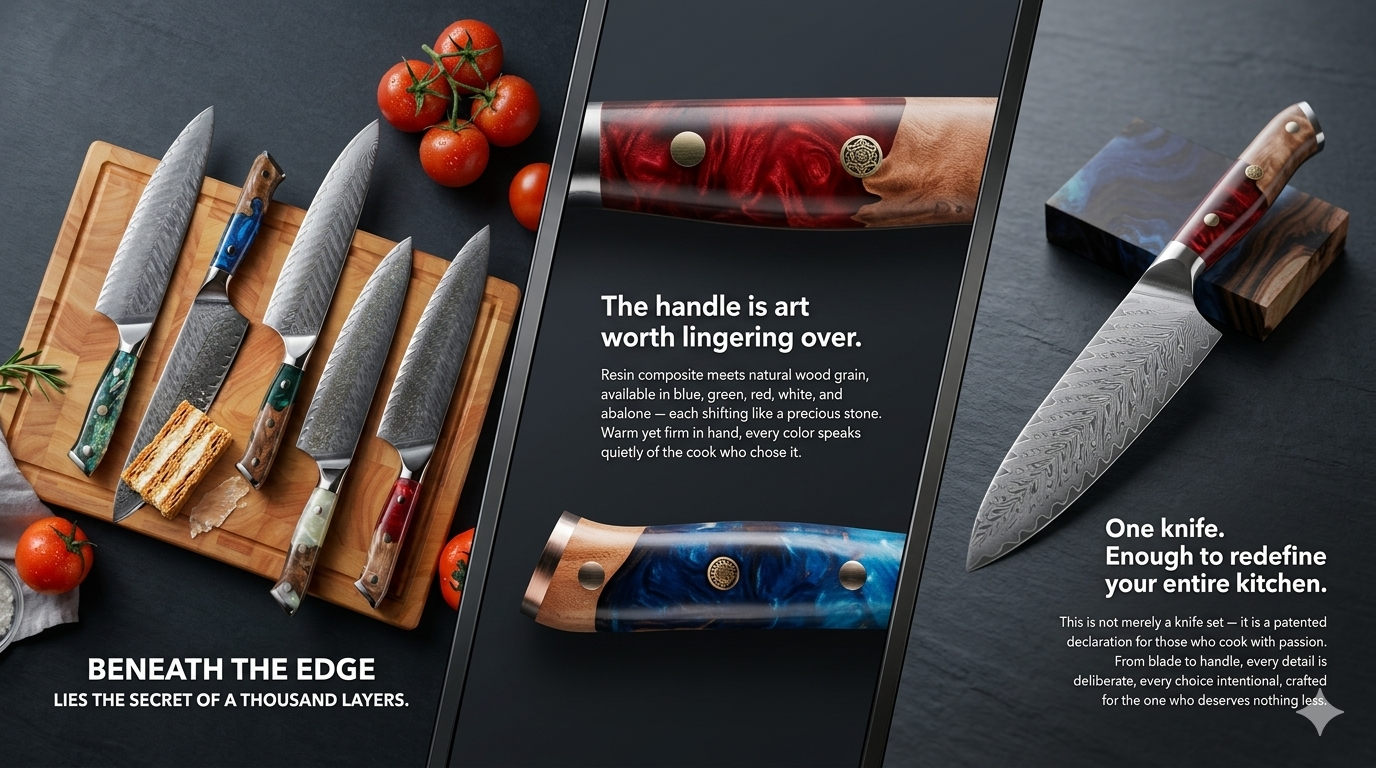
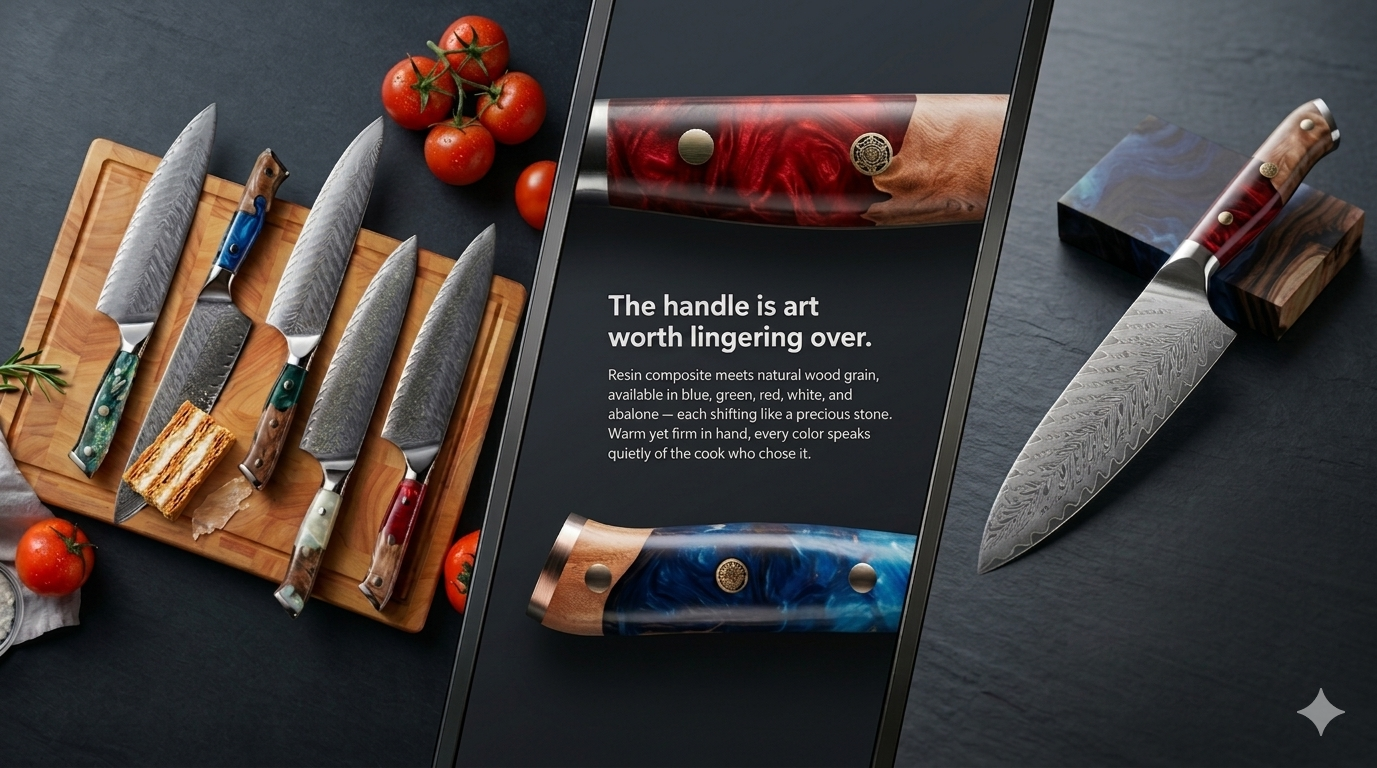
knives demo

diff --git a/demo cards/knives demo/inwin_catalogue.html b/demo cards/knives demo/inwin_catalogue.html
@@ -124,8 +124,9 @@ section{padding:80px 0}
 #company .section-label{color:var(--red)}
 #company .section-label::before{background:var(--red)}
 #company .section-title{color:var(--black)}
-.company-grid{display:grid;grid-template-columns:1fr 1fr;gap:60px;align-items:start;margin-top:60px}
-@media(max-width:768px){.company-grid{grid-template-columns:1fr;gap:40px}}
+.company-grid{display:grid;grid-template-columns:1fr 1fr;gap:60px;align-items:start;margin-top:0}
+.factory-row{display:grid;grid-template-columns:1fr 1fr;gap:32px;margin-top:48px;}
+@media(max-width:768px){.company-grid{grid-template-columns:1fr;}.factory-row{grid-template-columns:1fr;}}
 .company-about{font-family:var(--font-b);font-size:15px;line-height:1.8;color:#444;margin-bottom:24px}
 .company-about strong{color:var(--black)}
 .factory-art{
@@ -226,9 +227,20 @@ section{padding:80px 0}
   transition:all 0.3s ease;backdrop-filter:blur(12px);-webkit-backdrop-filter:blur(12px);
 }
 .c-nav-btn:hover{background:var(--red);border-color:var(--red)}
-.c-dots{display:flex;gap:8px;align-items:center}
-.c-dot{width:6px;height:6px;border-radius:50%;background:rgba(255,255,255,0.3);cursor:pointer;transition:all 0.3s}
-.c-dot.active{background:var(--red);width:22px;border-radius:3px}
+.c-dots{display:flex;gap:5px;align-items:center}
+.c-dot{
+  width:32px;height:3px;border-radius:2px;
+  background:rgba(255,255,255,0.2);
+  cursor:pointer;position:relative;overflow:hidden;
+}
+.c-dot::after{
+  content:'';position:absolute;inset:0;
+  background:var(--red);border-radius:2px;
+  transform:scaleX(0);transform-origin:left;
+}
+.c-dot.done::after{transform:scaleX(1);}
+.c-dot.active::after{animation:barFill 5s linear forwards;}
+@keyframes barFill{from{transform:scaleX(0)}to{transform:scaleX(1)}}
 
 /* ─── PRODUCTS SECTION ─── */
 @keyframes productsIn{
@@ -624,99 +636,20 @@ section{padding:80px 0}
 <!-- ─── COMPANY ─── -->
 <section id="company">
   <div class="container">
-    <p class="section-label reveal">Company Profile</p>
-    <h2 class="section-title reveal">Master Craftsman<br>of Professional<br><em>Kitchenware</em></h2>
     <div class="company-grid">
+      <!-- LEFT: title + text + factory 1 -->
       <div>
+        <p class="section-label reveal">Company Profile</p>
+        <h2 class="section-title reveal" style="margin-bottom:32px;">Master Craftsman<br>of Professional<br><em>Kitchenware</em></h2>
         <p class="company-about reveal">
           <strong>INWIN was established in 1979</strong>, located in the hardware base of Yangjiang city. It is a private high-tech enterprise specializing in the professional manufacture of stainless steel knives, scissors, cutlery, and precision casting — for both export and domestic markets.
         </p>
         <p class="company-about reveal">
           Guangdong INWIN Industrial Group Co., Ltd. operates multiple production bases: knives & scissors, precision casting, and kitchenware. Over <strong>100,000 m²</strong> of standard workshops, more than <strong>1,000 employees</strong>.
         </p>
-        <!-- Factory 1 -->
-        <div class="factory-art reveal">
-          <svg class="factory-svg" viewBox="0 0 500 280" xmlns="http://www.w3.org/2000/svg" style="background:#f5f2ee">
-            <!-- Sky -->
-            <rect width="500" height="280" fill="#f5f2ee"/>
-            <!-- Ground line -->
-            <line x1="0" y1="200" x2="500" y2="200" stroke="#ccc" stroke-width="0.8"/>
-            <!-- Main building - large factory -->
-            <rect x="40" y="100" width="280" height="100" fill="none" stroke="#555" stroke-width="1.2"/>
-            <rect x="40" y="100" width="280" height="18" fill="#eee" stroke="#555" stroke-width="0.8"/>
-            <!-- Windows main building -->
-            <rect x="60" y="125" width="30" height="20" fill="none" stroke="#888" stroke-width="0.7"/>
-            <rect x="100" y="125" width="30" height="20" fill="none" stroke="#888" stroke-width="0.7"/>
-            <rect x="140" y="125" width="30" height="20" fill="none" stroke="#888" stroke-width="0.7"/>
-            <rect x="180" y="125" width="30" height="20" fill="none" stroke="#888" stroke-width="0.7"/>
-            <rect x="220" y="125" width="30" height="20" fill="none" stroke="#888" stroke-width="0.7"/>
-            <rect x="260" y="125" width="30" height="20" fill="none" stroke="#888" stroke-width="0.7"/>
-            <rect x="60" y="155" width="30" height="20" fill="none" stroke="#888" stroke-width="0.7"/>
-            <rect x="100" y="155" width="30" height="20" fill="none" stroke="#888" stroke-width="0.7"/>
-            <rect x="140" y="155" width="30" height="20" fill="none" stroke="#888" stroke-width="0.7"/>
-            <rect x="180" y="155" width="30" height="20" fill="none" stroke="#888" stroke-width="0.7"/>
-            <rect x="220" y="155" width="30" height="20" fill="none" stroke="#888" stroke-width="0.7"/>
-            <rect x="260" y="155" width="30" height="20" fill="none" stroke="#888" stroke-width="0.7"/>
-            <!-- Chimney -->
-            <rect x="340" y="70" width="16" height="130" fill="none" stroke="#555" stroke-width="1"/>
-            <rect x="375" y="90" width="14" height="110" fill="none" stroke="#555" stroke-width="1"/>
-            <!-- Roof hatching -->
-            <line x1="40" y1="100" x2="320" y2="100" stroke="#555" stroke-width="1.2"/>
-            <!-- Gate -->
-            <rect x="130" y="170" width="40" height="30" fill="#e0ddd8" stroke="#666" stroke-width="1"/>
-            <!-- Trees -->
-            <line x1="20" y1="200" x2="20" y2="170" stroke="#777" stroke-width="1.2"/>
-            <ellipse cx="20" cy="165" rx="12" ry="10" fill="none" stroke="#777" stroke-width="1"/>
-            <line x1="420" y1="200" x2="420" y2="160" stroke="#777" stroke-width="1.2"/>
-            <ellipse cx="420" cy="155" rx="15" ry="12" fill="none" stroke="#777" stroke-width="1"/>
-            <line x1="450" y1="200" x2="450" y2="175" stroke="#777" stroke-width="1.2"/>
-            <ellipse cx="450" cy="170" rx="12" ry="10" fill="none" stroke="#777" stroke-width="1"/>
-            <!-- Hatching below building -->
-            <text x="40" y="225" font-family="Georgia,serif" font-size="9" fill="#999" letter-spacing="0.5">YANGDONG KNIFE AND SCISSORS MANUFACTURING FACTORY</text>
-          </svg>
-        </div>
-        <p class="factory-label">Yangdong Knife and Scissors Manufacturing Factory</p>
-        <!-- Factory 2 -->
-        <div class="factory-art reveal">
-          <svg class="factory-svg" viewBox="0 0 500 280" xmlns="http://www.w3.org/2000/svg" style="background:#f5f2ee">
-            <rect width="500" height="280" fill="#f5f2ee"/>
-            <line x1="0" y1="210" x2="500" y2="210" stroke="#ccc" stroke-width="0.8"/>
-            <!-- Admin building - more formal -->
-            <rect x="60" y="80" width="200" height="130" fill="none" stroke="#444" stroke-width="1.3"/>
-            <!-- Columns -->
-            <rect x="75" y="130" width="8" height="80" fill="#ddd" stroke="#666" stroke-width="0.7"/>
-            <rect x="100" y="130" width="8" height="80" fill="#ddd" stroke="#666" stroke-width="0.7"/>
-            <rect x="125" y="130" width="8" height="80" fill="#ddd" stroke="#666" stroke-width="0.7"/>
-            <rect x="150" y="130" width="8" height="80" fill="#ddd" stroke="#666" stroke-width="0.7"/>
-            <rect x="175" y="130" width="8" height="80" fill="#ddd" stroke="#666" stroke-width="0.7"/>
-            <rect x="200" y="130" width="8" height="80" fill="#ddd" stroke="#666" stroke-width="0.7"/>
-            <rect x="225" y="130" width="8" height="80" fill="#ddd" stroke="#666" stroke-width="0.7"/>
-            <!-- Rooftop -->
-            <path d="M 55 80 L 160 50 L 265 80" fill="none" stroke="#444" stroke-width="1.3"/>
-            <!-- Windows top floor -->
-            <rect x="80" y="90" width="28" height="22" fill="none" stroke="#777" stroke-width="0.8"/>
-            <rect x="120" y="90" width="28" height="22" fill="none" stroke="#777" stroke-width="0.8"/>
-            <rect x="160" y="90" width="28" height="22" fill="none" stroke="#777" stroke-width="0.8"/>
-            <rect x="200" y="90" width="28" height="22" fill="none" stroke="#777" stroke-width="0.8"/>
-            <!-- Fountain -->
-            <ellipse cx="160" cy="195" rx="40" ry="12" fill="none" stroke="#888" stroke-width="1"/>
-            <circle cx="160" cy="185" r="6" fill="none" stroke="#888" stroke-width="0.8"/>
-            <!-- Side wings -->
-            <rect x="270" y="120" width="100" height="90" fill="none" stroke="#666" stroke-width="1"/>
-            <rect x="270" y="120" width="100" height="15" fill="#eee" stroke="#666" stroke-width="0.7"/>
-            <!-- Trees row -->
-            <line x1="30" y1="210" x2="30" y2="175" stroke="#777" stroke-width="1.2"/>
-            <ellipse cx="30" cy="170" rx="12" ry="10" fill="none" stroke="#777" stroke-width="1"/>
-            <line x1="390" y1="210" x2="390" y2="175" stroke="#777" stroke-width="1.2"/>
-            <ellipse cx="390" cy="170" rx="12" ry="10" fill="none" stroke="#777" stroke-width="1"/>
-            <line x1="420" y1="210" x2="420" y2="180" stroke="#777" stroke-width="1.2"/>
-            <ellipse cx="420" cy="176" rx="10" ry="8" fill="none" stroke="#777" stroke-width="1"/>
-            <text x="60" y="238" font-family="Georgia,serif" font-size="9" fill="#999" letter-spacing="0.5">BAISHA KITCHENWARE MANUFACTURING FACTORY</text>
-          </svg>
-        </div>
-        <p class="factory-label">Baisha Kitchenware Manufacturing Factory</p>
       </div>
 
+      <!-- RIGHT: info -->
       <div>
         <!-- Stats -->
         <div class="stats-block reveal">
@@ -760,12 +693,83 @@ section{padding:80px 0}
           <span class="cert">LFGB</span>
         </div>
         <!-- Quote -->
-        <div style="margin-top:40px;padding:28px;background:#f0ede8;border-left:3px solid #c0392b;border-radius:4px" class="reveal">
+        <div style="margin-top:24px;padding:28px;background:#f0ede8;border-left:3px solid #c0392b;border-radius:4px" class="reveal">
           <p style="font-family:'Playfair Display',serif;font-size:18px;font-style:italic;color:#222;line-height:1.6">
             "China Knife,<br>Towards The World."
           </p>
           <p style="font-family:'Oswald',sans-serif;font-size:10px;letter-spacing:0.25em;text-transform:uppercase;color:#999;margin-top:12px">— INWIN Group, Yangdong China</p>
         </div>
+      </div>
+    </div>
+
+    <!-- Factories side by side -->
+    <div class="factory-row">
+      <div>
+        <div class="factory-art reveal">
+          <svg class="factory-svg" viewBox="0 0 500 280" xmlns="http://www.w3.org/2000/svg" style="background:#f5f2ee">
+            <rect width="500" height="280" fill="#f5f2ee"/>
+            <line x1="0" y1="200" x2="500" y2="200" stroke="#ccc" stroke-width="0.8"/>
+            <rect x="40" y="100" width="280" height="100" fill="none" stroke="#555" stroke-width="1.2"/>
+            <rect x="40" y="100" width="280" height="18" fill="#eee" stroke="#555" stroke-width="0.8"/>
+            <rect x="60" y="125" width="30" height="20" fill="none" stroke="#888" stroke-width="0.7"/>
+            <rect x="100" y="125" width="30" height="20" fill="none" stroke="#888" stroke-width="0.7"/>
+            <rect x="140" y="125" width="30" height="20" fill="none" stroke="#888" stroke-width="0.7"/>
+            <rect x="180" y="125" width="30" height="20" fill="none" stroke="#888" stroke-width="0.7"/>
+            <rect x="220" y="125" width="30" height="20" fill="none" stroke="#888" stroke-width="0.7"/>
+            <rect x="260" y="125" width="30" height="20" fill="none" stroke="#888" stroke-width="0.7"/>
+            <rect x="60" y="155" width="30" height="20" fill="none" stroke="#888" stroke-width="0.7"/>
+            <rect x="100" y="155" width="30" height="20" fill="none" stroke="#888" stroke-width="0.7"/>
+            <rect x="140" y="155" width="30" height="20" fill="none" stroke="#888" stroke-width="0.7"/>
+            <rect x="180" y="155" width="30" height="20" fill="none" stroke="#888" stroke-width="0.7"/>
+            <rect x="220" y="155" width="30" height="20" fill="none" stroke="#888" stroke-width="0.7"/>
+            <rect x="260" y="155" width="30" height="20" fill="none" stroke="#888" stroke-width="0.7"/>
+            <rect x="340" y="70" width="16" height="130" fill="none" stroke="#555" stroke-width="1"/>
+            <rect x="375" y="90" width="14" height="110" fill="none" stroke="#555" stroke-width="1"/>
+            <line x1="40" y1="100" x2="320" y2="100" stroke="#555" stroke-width="1.2"/>
+            <rect x="130" y="170" width="40" height="30" fill="#e0ddd8" stroke="#666" stroke-width="1"/>
+            <line x1="20" y1="200" x2="20" y2="170" stroke="#777" stroke-width="1.2"/>
+            <ellipse cx="20" cy="165" rx="12" ry="10" fill="none" stroke="#777" stroke-width="1"/>
+            <line x1="420" y1="200" x2="420" y2="160" stroke="#777" stroke-width="1.2"/>
+            <ellipse cx="420" cy="155" rx="15" ry="12" fill="none" stroke="#777" stroke-width="1"/>
+            <line x1="450" y1="200" x2="450" y2="175" stroke="#777" stroke-width="1.2"/>
+            <ellipse cx="450" cy="170" rx="12" ry="10" fill="none" stroke="#777" stroke-width="1"/>
+            <text x="40" y="225" font-family="Georgia,serif" font-size="9" fill="#999" letter-spacing="0.5">YANGDONG KNIFE AND SCISSORS MANUFACTURING FACTORY</text>
+          </svg>
+        </div>
+        <p class="factory-label">Yangdong Knife and Scissors Manufacturing Factory</p>
+      </div>
+      <div>
+        <div class="factory-art reveal">
+          <svg class="factory-svg" viewBox="0 0 500 280" xmlns="http://www.w3.org/2000/svg" style="background:#f5f2ee">
+            <rect width="500" height="280" fill="#f5f2ee"/>
+            <line x1="0" y1="210" x2="500" y2="210" stroke="#ccc" stroke-width="0.8"/>
+            <rect x="60" y="80" width="200" height="130" fill="none" stroke="#444" stroke-width="1.3"/>
+            <rect x="75" y="130" width="8" height="80" fill="#ddd" stroke="#666" stroke-width="0.7"/>
+            <rect x="100" y="130" width="8" height="80" fill="#ddd" stroke="#666" stroke-width="0.7"/>
+            <rect x="125" y="130" width="8" height="80" fill="#ddd" stroke="#666" stroke-width="0.7"/>
+            <rect x="150" y="130" width="8" height="80" fill="#ddd" stroke="#666" stroke-width="0.7"/>
+            <rect x="175" y="130" width="8" height="80" fill="#ddd" stroke="#666" stroke-width="0.7"/>
+            <rect x="200" y="130" width="8" height="80" fill="#ddd" stroke="#666" stroke-width="0.7"/>
+            <rect x="225" y="130" width="8" height="80" fill="#ddd" stroke="#666" stroke-width="0.7"/>
+            <path d="M 55 80 L 160 50 L 265 80" fill="none" stroke="#444" stroke-width="1.3"/>
+            <rect x="80" y="90" width="28" height="22" fill="none" stroke="#777" stroke-width="0.8"/>
+            <rect x="120" y="90" width="28" height="22" fill="none" stroke="#777" stroke-width="0.8"/>
+            <rect x="160" y="90" width="28" height="22" fill="none" stroke="#777" stroke-width="0.8"/>
+            <rect x="200" y="90" width="28" height="22" fill="none" stroke="#777" stroke-width="0.8"/>
+            <ellipse cx="160" cy="195" rx="40" ry="12" fill="none" stroke="#888" stroke-width="1"/>
+            <circle cx="160" cy="185" r="6" fill="none" stroke="#888" stroke-width="0.8"/>
+            <rect x="270" y="120" width="100" height="90" fill="none" stroke="#666" stroke-width="1"/>
+            <rect x="270" y="120" width="100" height="15" fill="#eee" stroke="#666" stroke-width="0.7"/>
+            <line x1="30" y1="210" x2="30" y2="175" stroke="#777" stroke-width="1.2"/>
+            <ellipse cx="30" cy="170" rx="12" ry="10" fill="none" stroke="#777" stroke-width="1"/>
+            <line x1="390" y1="210" x2="390" y2="175" stroke="#777" stroke-width="1.2"/>
+            <ellipse cx="390" cy="170" rx="12" ry="10" fill="none" stroke="#777" stroke-width="1"/>
+            <line x1="420" y1="210" x2="420" y2="180" stroke="#777" stroke-width="1.2"/>
+            <ellipse cx="420" cy="176" rx="10" ry="8" fill="none" stroke="#777" stroke-width="1"/>
+            <text x="60" y="238" font-family="Georgia,serif" font-size="9" fill="#999" letter-spacing="0.5">BAISHA KITCHENWARE MANUFACTURING FACTORY</text>
+          </svg>
+        </div>
+        <p class="factory-label">Baisha Kitchenware Manufacturing Factory</p>
       </div>
     </div>
   </div>
@@ -1611,7 +1615,8 @@ section{padding:80px 0}
 // ─────────────────────────────────────────────────────────────────────────────
 const CATEGORIES = [
   {
-    id:'mts', name:'MTS ARTISTRY', num:'01',
+    id:'mts', name:'COLORED KNIVES', num:'01',
+    photo:'catalogue_pics/colored_knives.png',
     tagline:'Where Precision Meets Artistry',
     desc:'Anodized aluminum and G10 handles in four signature colors. Forged from premium powder steel, honed to perfection. Paired with its bespoke magnetic stand.',
     gradient:'linear-gradient(160deg,#0d1a2e 0%,#1a2d4a 40%,#0a1525 100%)',
@@ -1625,6 +1630,7 @@ const CATEGORIES = [
   },
   {
     id:'vform', name:'V-FORM', num:'02',
+    photo:'catalogue_pics/v-form.png',
     tagline:'Patented · Redefining the Art of the Blade',
     desc:'Patented V-shaped design meets a commanding G10 handle. Black powder steel, silky smooth cutting edge. Powder Steel · Timeless Stainless · Sharp today, sharp always.',
     gradient:'linear-gradient(160deg,#0a0505 0%,#1c0808 40%,#2a0d0d 100%)',
@@ -1640,6 +1646,7 @@ const CATEGORIES = [
   },
   {
     id:'damascus', name:'DAMASCUS', num:'03',
+    photo:'catalogue_pics/damascus.png',
     tagline:'Beneath the Edge · A Thousand Layers',
     desc:'Damascus steel with resin composite handles. Each blade holds the secret of a thousand layers — available in blue, green, red, white and abalone. Art worth lingering over.',
     gradient:'linear-gradient(160deg,#0d0818 0%,#1a0d2e 40%,#0d0a18 100%)',
@@ -1652,6 +1659,7 @@ const CATEGORIES = [
   },
   {
     id:'dragon', name:'DRAGON', num:'04',
+    photo:'catalogue_pics/dragon.png',
     tagline:'Red Dot Award · Design Excellence Redefined',
     desc:'Winner of the prestigious Red Dot Award. Interchangeable modular handles, dragon-engraved stainless blade. An art piece for your kitchen — detachable gift box included.',
     gradient:'linear-gradient(160deg,#150800 0%,#2d1200 40%,#1a0a00 100%)',
@@ -1664,7 +1672,8 @@ const CATEGORIES = [
     ]
   },
   {
-    id:'boards', name:'CUTTING BOARDS', num:'05',
+    id:'boards', name:'CUTTING BOARD', num:'05',
+    photo:'catalogue_pics/cutting_board.png',
     tagline:'Natural Luxury · Ages Beautifully',
     desc:'From the innovative iPad-style magnetic flip board to premium North American Black Walnut. Function meets fine material, beautifully.',
     gradient:'linear-gradient(160deg,#180e04 0%,#3d2008 40%,#251408 100%)',
@@ -1675,7 +1684,8 @@ const CATEGORIES = [
     ]
   },
   {
-    id:'cookware', name:'COOKWARE', num:'06',
+    id:'cookware', name:'POTS', num:'06',
+    photo:'catalogue_pics/pots.png',
     tagline:'Master Your Kitchen',
     desc:'From the Micro-Pressure Wok to 3-Layer Stainless cookware sets. Compatible with all stoves, induction-ready, dishwasher safe.',
     gradient:'linear-gradient(160deg,#070d18 0%,#0f1a2e 40%,#0a1020 100%)',
@@ -1687,7 +1697,8 @@ const CATEGORIES = [
     ]
   },
   {
-    id:'scissors', name:'KITCHEN SCISSORS', num:'07',
+    id:'scissors', name:'SCISSORS', num:'07',
+    photo:'catalogue_pics/scissors.png',
     tagline:'Precision Cutting · Professional Grade',
     desc:'Multi-purpose kitchen scissors engineered for professional use. From heavy-duty poultry shears to 5-blade herb scissors — forged stainless steel, ergonomic handles, dishwasher safe.',
     gradient:'linear-gradient(160deg,#080d10 0%,#0d1c22 40%,#060e12 100%)',
@@ -1697,6 +1708,20 @@ const CATEGORIES = [
       {id:'sc2',name:'Poultry Shears',tagline:'Heavy-duty precision cutting',blade:'420J2 Stainless Steel',handle:'PP Soft-Grip',length:'24 cm',weight:'260g',colors:['#1a1a1a','#2a2a2a'],handleType:'flat',bladeType:'cleaver'},
       {id:'sc3',name:'Herb Scissors 5-Blade',tagline:'Five blades, one cut',blade:'420 Stainless Steel',handle:'PP + ABS',length:'19 cm',weight:'130g',colors:['#1a5c1a','#1a1a1a'],handleType:'flat',bladeType:'utility'},
       {id:'sc4',name:'Seafood Scissors',tagline:'Shell to table, effortlessly',blade:'420 Stainless Steel',handle:'ABS + Non-slip Grip',length:'20 cm',weight:'150g',colors:['#1a4896','#1a1a1a'],handleType:'flat',bladeType:'paring'},
+    ]
+  },
+  {
+    id:'streamline', name:'STREAMLINE', num:'08',
+    photo:'catalogue_pics/streamline.png',
+    tagline:'Clean Lines · Uncompromising Edge',
+    desc:'A minimalist knife series defined by seamless silhouettes and a mirror-polished blade. Ergonomic full-tang construction, balanced for all-day professional use.',
+    gradient:'linear-gradient(160deg,#0a0a0c 0%,#141418 40%,#0a0a0c 100%)',
+    accent:'#e8e8f0',
+    products:[
+      {id:'sl1',name:"Chef's Knife 8\"",tagline:'The purist choice',blade:'German 1.4116 Stainless',handle:'Full-Tang Polished Steel',length:'8 inch',weight:'235g',colors:['#d0d0d8','#1a1a1a'],handleType:'flat',bladeType:'chef'},
+      {id:'sl2',name:"Santoku 7\"",tagline:'Versatility, perfected',blade:'German 1.4116 Stainless',handle:'Full-Tang Polished Steel',length:'7 inch',weight:'195g',colors:['#d0d0d8','#1a1a1a'],handleType:'flat',bladeType:'santoku'},
+      {id:'sl3',name:"Bread Knife 8\"",tagline:'Serrated precision',blade:'German 1.4116 Stainless',handle:'Full-Tang Polished Steel',length:'8 inch',weight:'210g',colors:['#d0d0d8'],handleType:'flat',bladeType:'bread'},
+      {id:'sl4',name:"Paring Knife 3.5\"",tagline:'Control at every scale',blade:'German 1.4116 Stainless',handle:'Full-Tang Polished Steel',length:'3.5 inch',weight:'95g',colors:['#d0d0d8','#1a1a1a'],handleType:'flat',bladeType:'paring'},
     ]
   }
 ];
@@ -1779,9 +1804,10 @@ function buildCarousel() {
     card.dataset.index = i;
     card.innerHTML = `
       <div class="c-card-bg">
-        <div class="c-card-img" style="width:100%;height:100%;background:${cat.gradient};">
-          ${buildCategoryArt(cat)}
-        </div>
+        ${cat.photo
+          ? `<img class="c-card-img" src="${cat.photo}" alt="${cat.name}">`
+          : `<div class="c-card-img" style="background:${cat.gradient};">${buildCategoryArt(cat)}</div>`
+        }
         <div class="c-card-overlay"></div>
       </div>
       <div class="c-card-content">
@@ -2018,12 +2044,26 @@ function setCarousel(index) {
   });
 
   dots.forEach((dot, i) => {
-    dot.classList.toggle('active', i === carouselIndex);
+    dot.classList.remove('active', 'done');
+  });
+  const activeDot = dots[carouselIndex];
+  if (activeDot) {
+    void activeDot.offsetWidth;
+    activeDot.classList.add('active');
+  }
+  dots.forEach((dot, i) => {
+    if (i < carouselIndex) dot.classList.add('done');
   });
 }
 
-document.getElementById('cPrev').addEventListener('click', () => setCarousel(carouselIndex - 1));
-document.getElementById('cNext').addEventListener('click', () => setCarousel(carouselIndex + 1));
+document.getElementById('cPrev').addEventListener('click', () => { setCarousel(carouselIndex - 1); resetAutoplay(); });
+document.getElementById('cNext').addEventListener('click', () => { setCarousel(carouselIndex + 1); resetAutoplay(); });
+
+let autoplayTimer = setInterval(() => setCarousel(carouselIndex + 1), 5000);
+function resetAutoplay() {
+  clearInterval(autoplayTimer);
+  autoplayTimer = setInterval(() => setCarousel(carouselIndex + 1), 5000);
+}
 
 // Touch/swipe on carousel
 let touchStartX = 0;